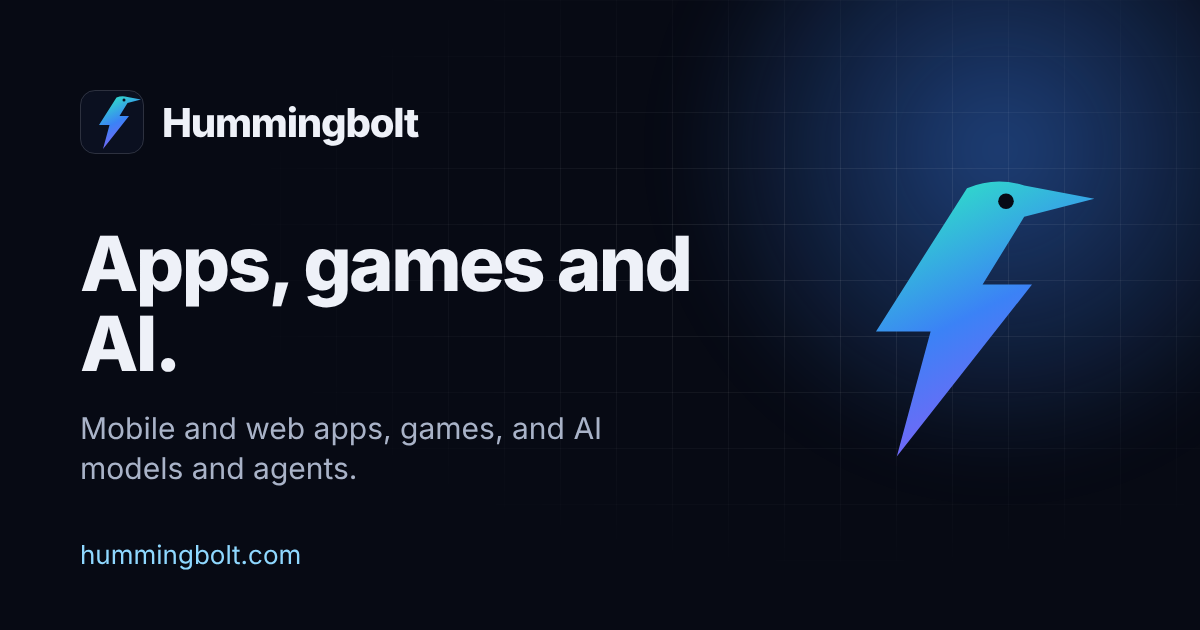
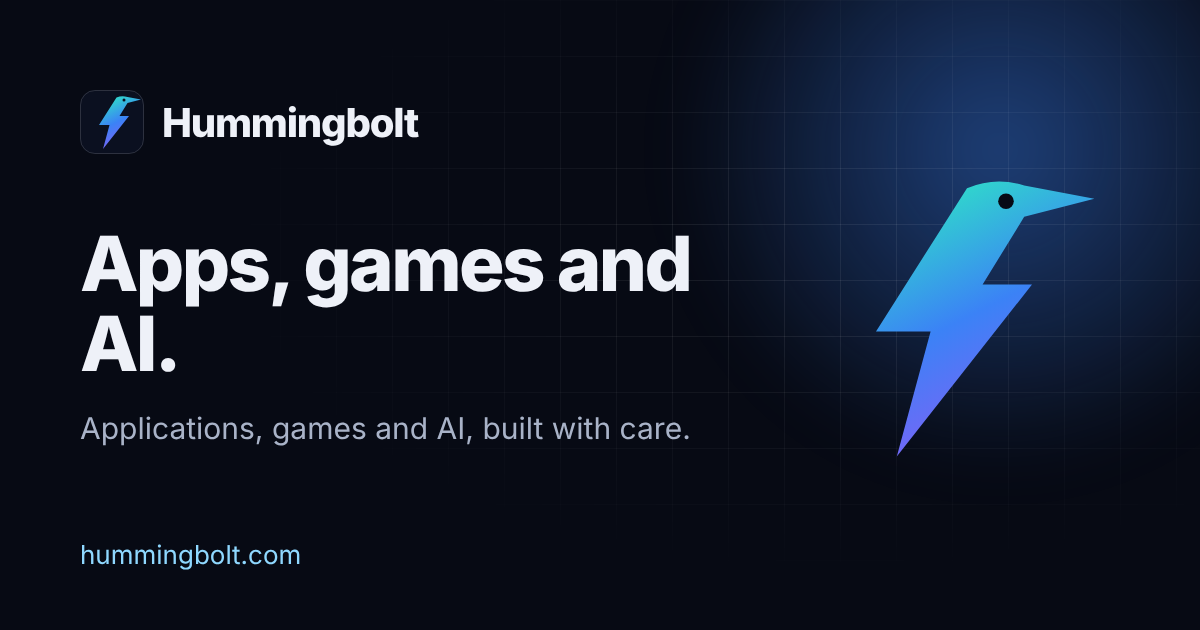
Describe what we make as "applications, games and AI" (#4)
Drop 'models and agents' from the home page, meta descriptions,
structured data and the share card, and show three capability cards.

Claude-Session: https://claude.ai/code/session_01Sm7kmwKRMMWFvpZqonj93n

Changed region(s): [[0.0617, 0.6635, 0.5858, 0.7841]]

diff --git a/site/index.html b/site/index.html
@@ -6,11 +6,11 @@
   <meta http-equiv="Content-Security-Policy" content="default-src 'none'; style-src 'self'; img-src 'self'; base-uri 'none'; form-action 'none'">
   <meta name="referrer" content="strict-origin-when-cross-origin">
   <title>Hummingbolt — apps, games and AI</title>
-  <meta name="description" content="Hummingbolt LLC makes mobile and web apps, games and AI: applications, models and agents. Our first game is Toppleton, a stacking game for all ages.">
+  <meta name="description" content="Hummingbolt LLC makes applications, games and AI. Our first game is Toppleton, a stacking game for all ages.">
   <link rel="canonical" href="https://hummingbolt.com/">
   <meta name="theme-color" content="#070a14">
   <meta property="og:title" content="Hummingbolt — apps, games and AI">
-  <meta property="og:description" content="Hummingbolt LLC makes mobile and web apps, games and AI: applications, models and agents. Our first game is Toppleton, a stacking game for all ages.">
+  <meta property="og:description" content="Hummingbolt LLC makes applications, games and AI. Our first game is Toppleton, a stacking game for all ages.">
   <meta property="og:type" content="website">
   <meta property="og:site_name" content="Hummingbolt">
   <meta property="og:url" content="https://hummingbolt.com/">
@@ -20,7 +20,7 @@
   <meta property="og:image:alt" content="Hummingbolt: apps, games and AI.">
   <meta name="twitter:card" content="summary_large_image">
   <link rel="apple-touch-icon" href="/apple-touch-icon.png">
-  <script type="application/ld+json">{"@context":"https://schema.org","@graph":[{"@type":"Organization","@id":"https://hummingbolt.com/#org","name":"Hummingbolt LLC","alternateName":"Hummingbolt","url":"https://hummingbolt.com/","logo":"https://hummingbolt.com/apple-touch-icon.png","email":"admin@hummingbolt.com","description":"Hummingbolt makes mobile and web apps, games, and AI: AI applications, models and agents.","address":{"@type":"PostalAddress","streetAddress":"2108 N St #18140","addressLocality":"Sacramento","addressRegion":"CA","postalCode":"95816","addressCountry":"US"}},{"@type":"WebSite","@id":"https://hummingbolt.com/#website","url":"https://hummingbolt.com/","name":"Hummingbolt","publisher":{"@id":"https://hummingbolt.com/#org"}}]}</script>
+  <script type="application/ld+json">{"@context":"https://schema.org","@graph":[{"@type":"Organization","@id":"https://hummingbolt.com/#org","name":"Hummingbolt LLC","alternateName":"Hummingbolt","url":"https://hummingbolt.com/","logo":"https://hummingbolt.com/apple-touch-icon.png","email":"admin@hummingbolt.com","description":"Hummingbolt makes applications, games and AI.","address":{"@type":"PostalAddress","streetAddress":"2108 N St #18140","addressLocality":"Sacramento","addressRegion":"CA","postalCode":"95816","addressCountry":"US"}},{"@type":"WebSite","@id":"https://hummingbolt.com/#website","url":"https://hummingbolt.com/","name":"Hummingbolt","publisher":{"@id":"https://hummingbolt.com/#org"}}]}</script>
   <link rel="icon" href="/favicon.svg" type="image/svg+xml">
   <link rel="stylesheet" href="/style.css">
 </head>
@@ -46,7 +46,7 @@
         <div>
           <p class="eyebrow"><span class="dot" aria-hidden="true"></span>Software studio · San Francisco Bay Area</p>
           <h1 id="hero-title">Apps, games and AI, built with a <span class="grad-text">spark</span>.</h1>
-          <p class="lead mt">Hummingbolt makes mobile and web apps, games and AI: applications, models and agents. Built with care, from first idea to launch.</p>
+          <p class="lead mt">Hummingbolt makes applications, games and AI. Built with care, from first idea to launch.</p>
           <div class="actions">
             <a class="btn btn-primary" href="https://play.toppleton.app">Play Toppleton <svg viewBox="0 0 20 20" fill="none" stroke="currentColor" stroke-width="2" stroke-linecap="round" stroke-linejoin="round" aria-hidden="true"><path d="M4 10h12M11 5l5 5-5 5"/></svg></a>
             <a class="btn btn-ghost" href="#contact">Get in touch</a>
@@ -67,8 +67,8 @@
       <div class="wrap">
         <div class="section-head">
           <p class="kicker">What we make</p>
-          <h2 id="make-title">Four crafts, one studio.</h2>
-          <p class="lead">From your phone to the browser to the model underneath, we build the whole thing.</p>
+          <h2 id="make-title">Three crafts, one studio.</h2>
+          <p class="lead">From your phone to the browser, we build the whole thing.</p>
         </div>
         <ul class="cards">
           <li class="card teal">
@@ -83,13 +83,8 @@
           </li>
           <li class="card blue">
             <div class="icon"><svg viewBox="0 0 24 24" fill="none" stroke="currentColor" stroke-width="1.8" stroke-linecap="round" stroke-linejoin="round" aria-hidden="true"><path d="M12 3l1.8 4.7L18.5 9.5l-4.7 1.8L12 16l-1.8-4.7L5.5 9.5l4.7-1.8z"/><path d="M19 15l.8 2.2 2.2.8-2.2.8L19 21l-.8-2.2-2.2-.8 2.2-.8z"/></svg></div>
-            <h3>AI applications</h3>
+            <h3>AI</h3>
             <p>Useful products with AI built in, designed around real tasks.</p>
-          </li>
-          <li class="card violet">
-            <div class="icon"><svg viewBox="0 0 24 24" fill="none" stroke="currentColor" stroke-width="1.8" stroke-linecap="round" stroke-linejoin="round" aria-hidden="true"><circle cx="12" cy="5" r="2.2"/><circle cx="5" cy="18" r="2.2"/><circle cx="19" cy="18" r="2.2"/><circle cx="12" cy="12.5" r="1.6"/><path d="M12 7.2v3.7M10.7 13.5l-4.1 3M13.3 13.5l4.1 3M7.2 18h9.6"/></svg></div>
-            <h3>Models &amp; agents</h3>
-            <p>Our own AI models, and agents that can plan and act.</p>
           </li>
         </ul>
       </div>

diff --git a/site/style.css b/site/style.css
@@ -153,8 +153,7 @@ p { margin: 0 0 1rem; }
 
 /* Capability cards */
 .cards { display: grid; gap: 1rem; margin: 0; padding: 0; list-style: none; }
-@media (min-width: 40rem) { .cards { grid-template-columns: repeat(2, 1fr); } }
-@media (min-width: 64rem) { .cards { grid-template-columns: repeat(4, 1fr); } }
+@media (min-width: 48rem) { .cards { grid-template-columns: repeat(3, 1fr); } }
 .card {
   position: relative; overflow: hidden;
   padding: 1.6rem 1.5rem 1.4rem; border-radius: var(--radius);
